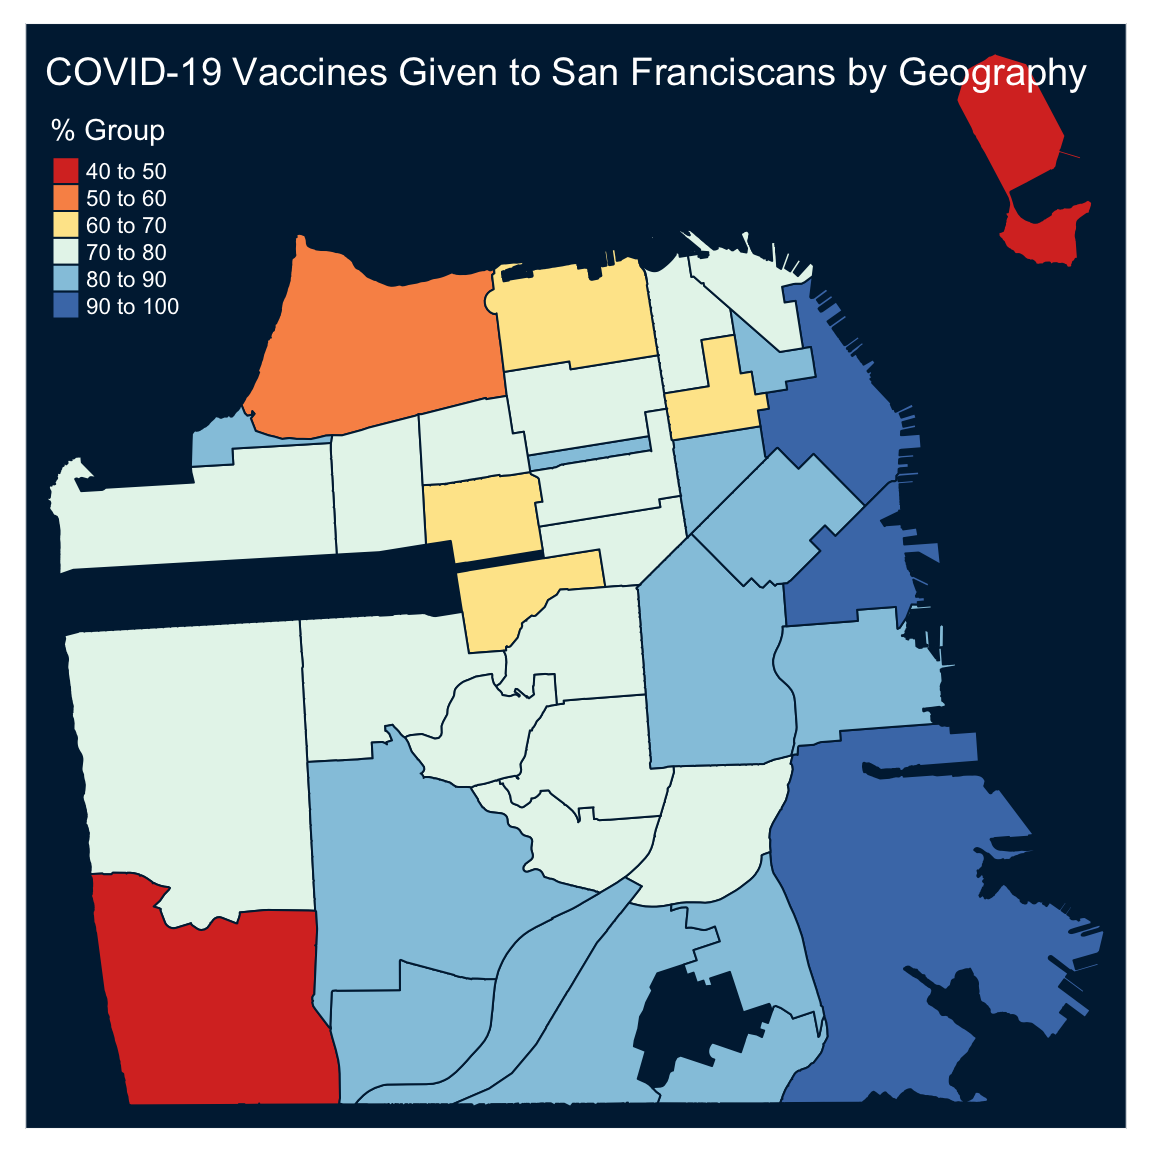
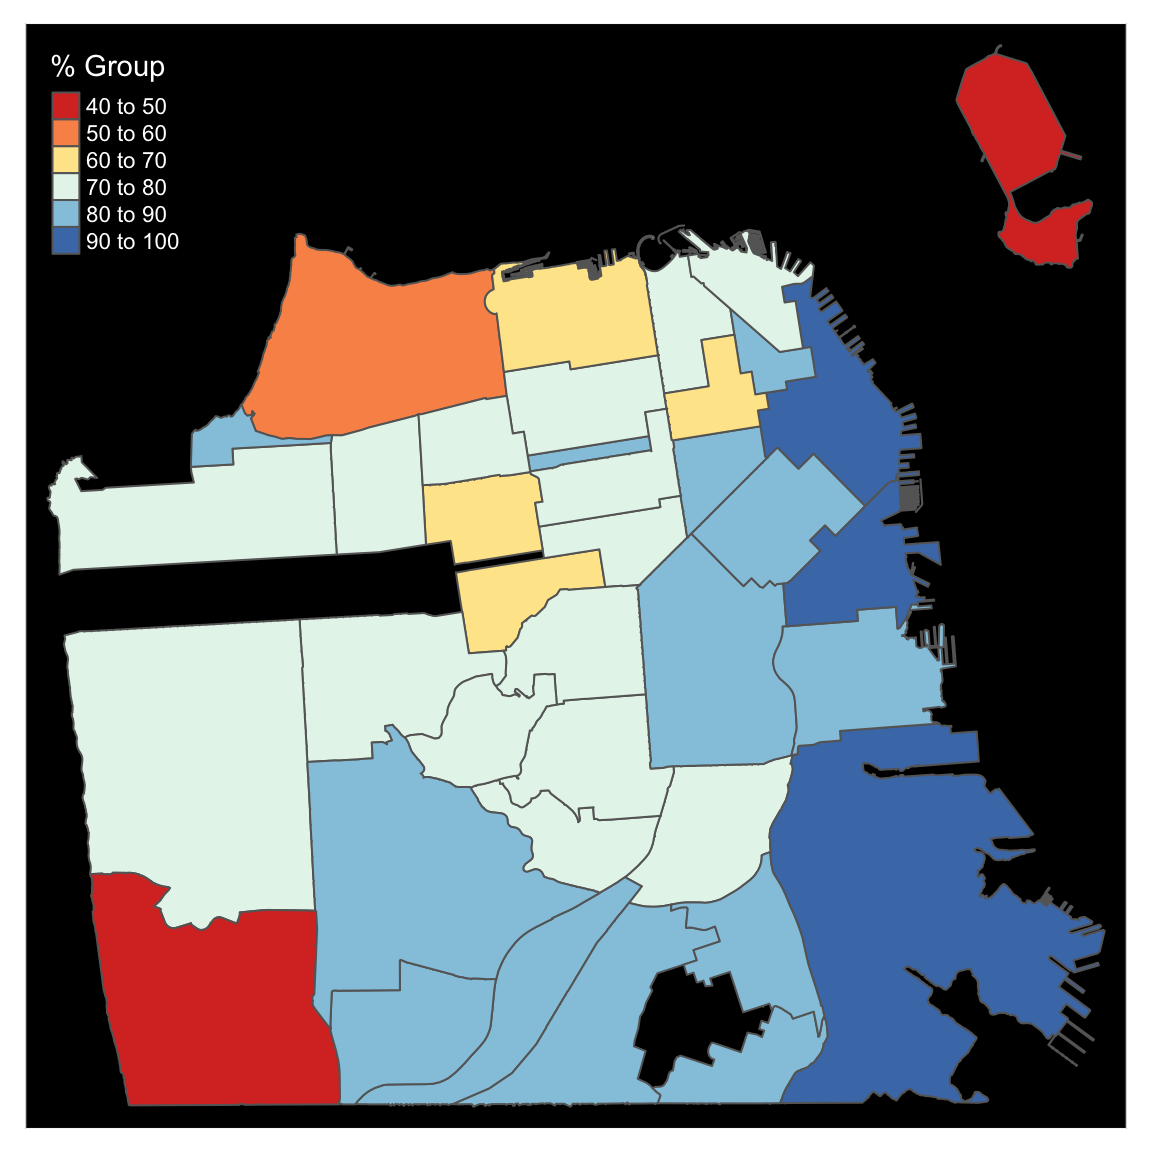
update the post

diff --git a/content/post/2021-12-20-geospatial-visualization-with-the-tmap-package/index.html b/content/post/2021-12-20-geospatial-visualization-with-the-tmap-package/index.html
@@ -1,7 +1,7 @@
 ---
 title: Introduction to Geospatial Visualization with the tmap package
 author: ''
-date: '2021-12-29'
+date: '2021-12-30'
 slug: geospatial-visualization-with-the-tmap-package
 categories:
   - dataviz
@@ -22,33 +22,35 @@ keywords:
 
 
 <!--more-->
-<p>The <a href="https://cran.r-project.org/web/packages/tmap/index.html">tmap</a> package provides a set of functions and tools for creating thematic maps such as choropleths and bubble maps. The package follows the ggplot2 syntax style enables the users to add different layers to the map. By default, the plot output is static, but it also has an interactive mode providing wrapper to the JavaScript <a href="">leaflet</a> library (similar to <strong>mapview</strong> and <strong>leaflet</strong> packages). This tutorial focuses on the basic functionality of the package covering:</p>
+<p>I had super fun exploring the <a href="https://cran.r-project.org/web/packages/tmap/index.html">tmap</a> package functionality while preparing a presentation about geospatial visualization for the <a href="https://ramikrispin.github.io/gis-dataviz-workshop/#1">Abuja R-Ladies/R Users meetup</a>, so I decided to write a short tutorial about it.</p>
+<p>The <strong>tmap</strong> package provides a set of functions and tools for creating thematic maps such as choropleths and bubble maps. The package follows the <strong>ggplot2</strong> syntax style enabling users to add different layers to the map. By default, the plot output is static, but it also has an interactive mode providing a wrapper to the JavaScript <a href="https://leafletjs.com/">leaflet</a> library (similar to <strong>mapview</strong> and <strong>leaflet</strong> packages). This tutorial focuses on the basic functionality of the package covering:</p>
 <ul>
 <li>Plotting <code>sf</code> objects</li>
 <li>Customize the plot colors</li>
 <li>Setting titles and legends</li>
 <li>Global options and attributes</li>
 </ul>
-<pre><code>## Spherical geometry (s2) switched off</code></pre>
-<p><img src="staticunnamed-chunk-1-1.png" width="576" /></p>
+<p><img src="staticunnamed-chunk-2-1.png" width="576" /></p>
 <div id="libraries" class="section level4">
 <h4>Libraries</h4>
-<p>In this tutorial we will use the following libraries:</p>
+<p>In this tutorial, we will use the following libraries:</p>
 <ul>
 <li><strong>tmap</strong> - tools and functions for creating thematic maps</li>
 <li><strong>sf</strong> - supports for <code>sf</code> objects</li>
 <li><strong>covid19sf</strong> - daily summary of COVID-19 cases and vaccination status in San Francisco</li>
 <li><strong>dplyr</strong> - to manipulate and filter the data</li>
+<li><strong>RColorBrewer</strong> - to set a color palettes for the plot</li>
 </ul>
 <pre class="r"><code>library(tmap)
 library(sf)
 library(covid19sf)
-library(dplyr)</code></pre>
+library(dplyr)
+library(RColorBrewer)</code></pre>
 </div>
 <div id="data-input" class="section level4">
 <h4>Data input</h4>
-<p>The <strong>tmap</strong> package supports objects from the <strong>sf</strong>, <strong>stars</strong>, <strong>sp</strong>, and <strong>raster</strong> packages. I generally find it easier to work with <code>sf</code> objects as it is a <code>data.frame</code> object with extra attributes (nested geometry data). Therefore, it is significantly easier and faster to manipulate <code>sf</code> objects with the use of <strong>dplyr</strong> or similar applications.</p>
-<p>In the examples below, we will use the <code>covid19sf_vaccine_geo</code> dataset from the <a href="https://github.com/RamiKrispin/covid19sf">covid19sf</a> package. This dataset represents the COVID-19 vaccinations given to SF residents by geographic region of their residential address. The dataset comes as an <code>sf</code> object and no additional reformatting is needed:</p>
+<p>The <strong>tmap</strong> package supports objects from the <strong>sf</strong>, <strong>stars</strong>, <strong>sp</strong>, and <strong>raster</strong> packages. I generally find it easier to work with <code>sf</code> object as it is a <code>data.frame</code> with extra attributes (nested geometry data). Therefore, it is significantly easier and faster to manipulate <code>sf</code> objects with the use of <strong>dplyr</strong> or similar applications.</p>
+<p>In the examples below, we will use the <code>covid19sf_vaccine_geo</code> dataset from the <a href="https://github.com/RamiKrispin/covid19sf">covid19sf</a> package. This dataset represents the COVID-19 vaccinations given to SF residents by geographic region of their residential address. The dataset comes as an <code>sf</code> object, therefore, no additional reformatting is needed:</p>
 <pre class="r"><code>data(covid19sf_vaccine_geo)
 
 head(covid19sf_vaccine_geo)</code></pre>
@@ -98,45 +100,52 @@ head(covid19sf_vaccine_geo)</code></pre>
 <li><code>geometry</code> - The area polygon data</li>
 </ul>
 <p>In the examples below, we will plot the percentage of San Francisco’s fully vaccinated population by neighborhood. The dataset contains both neighborhood and aggregated level data. Therefore, before starting, we will filter the data by the neighborhood level and remove the aggregated data:</p>
-<pre class="r"><code>df &lt;- covid19sf_vaccine_geo %&gt;% filter(area_type == &quot;Analysis Neighborhood&quot;) %&gt;%
+<pre class="r"><code>df &lt;- covid19sf_vaccine_geo %&gt;% 
+  filter(area_type == &quot;Analysis Neighborhood&quot;) %&gt;%
   mutate(perc_complated = percent_pop_series_completed * 100)</code></pre>
 <p><strong>Note:</strong> We created the <code>perc_complated</code> variable, a transformation of the <code>percent_pop_series_completed</code> variable from decimal to percentage format.</p>
 </div>
 <div id="basic-map" class="section level4">
 <h4>Basic map</h4>
-<p>Before starting, following changes in the default options of the sf package from version <code>1.0-1</code>, the default option is to use s2 spherical geometry when coordinates are ellipsoidal. That cause some issues with the <strong>tmap</strong> package, therefore we will set this functionality as <code>FALSE</code>:</p>
+<p>Before starting, following changes in the default options of the sf package from version <code>1.0-1</code>, the default option is to use s2 spherical geometry when coordinates are ellipsoidal. That can cause some issues with the <strong>tmap</strong> package, therefore we will set this functionality as <code>FALSE</code>:</p>
 <pre class="r"><code>sf_use_s2(FALSE)</code></pre>
-<p>We will start with basic plot of the percentage of vaccinated population in San Francisco. The <code>tm_shape</code> function specifies the shape object and the <code>tm_polygons</code> function defines draw the polygons and variable to fill the color:</p>
+<p>We will start with a basic plot of the percentage of the vaccinated population in San Francisco. The <code>tm_shape</code> function specifies the shape object, and the <code>tm_polygons</code> function draws the polygons and fills the color based on the input variable:</p>
 <pre class="r"><code>tm_shape(df) + 
   tm_polygons(col = &quot;perc_complated&quot;,
               title = &quot;% Group&quot;)</code></pre>
-<p><img src="staticunnamed-chunk-6-1.png" width="576" /></p>
-<p>By default, the <code>tm_polygons</code> function bucket continues variable into groups. In the case above, percentage of vaccinated population, into groups of tens. The <code>style</code> and <code>n</code> arguments enables you to control the splitting method (e.g., by fixied breaks, standard divination, quantile, log scale, etc.) and number of groups.For example, let’s set 10 equal buckets:</p>
+<p><img src="staticunnamed-chunk-7-1.png" width="576" /></p>
+<p>By default, the <code>tm_polygons</code> function bucket the continues variable into groups. In the case above, the percentage of vaccinated population, into groups of tens. The <code>style</code> and <code>n</code> arguments enable you to control the splitting or bucketing method (e.g., by fixed breaks, standard divination, quantile, log scale, etc.) and the number of groups, respectively. For example, let’s use the <code>equal</code> style and set the percentage groups into 10 equal buckets:</p>
 <pre class="r"><code>tm_shape(df) + 
   tm_polygons(&quot;perc_complated&quot;,
               n = 10,
               style = &quot;equal&quot;,
               title = &quot;% Group&quot;)  </code></pre>
-<p><img src="staticunnamed-chunk-7-1.png" width="576" /></p>
+<p><img src="staticunnamed-chunk-8-1.png" width="576" /></p>
 </div>
 <div id="color-setting" class="section level4">
 <h4>Color setting</h4>
-<p>Let’s now modify the plot colors. The <code>palette</code> argument on <code>tm_polygons</code> function enables you to define the map fill color palette. For example, we will use the <code>RdYlBu</code> from the <strong>RColorBrewer</strong> package:</p>
+<p>Let’s now modify the plot’s colors. The <code>palette</code> argument on <code>tm_polygons</code> function enables you to define the map fill color palette. For example, we will use the <code>RdYlBu</code> from the <strong>RColorBrewer</strong> package:</p>
+<pre class="r"><code>display.brewer.pal(n=7, name = &quot;RdYlBu&quot;)</code></pre>
+<p><img src="staticunnamed-chunk-9-1.png" width="576" /></p>
 <pre class="r"><code>tm_shape(df) + 
   tm_polygons(&quot;perc_complated&quot;,
               palette = &quot;RdYlBu&quot;,
               title = &quot;% Group&quot;)  </code></pre>
-<p><img src="staticunnamed-chunk-8-1.png" width="576" /></p>
-<p>The <code>palette</code> argument supports R’s main color palettes packages such as <strong>RColorBrewer</strong> and <strong>viridis</strong>. You can customize and modify the default palettes with the <code>palette_explorer</code> function, a Shiny app from the <strong>tmaptools</strong> package.</p>
-<p>The <code>tm_layout</code> function enables to set and modify the plot main elements such as title, margins, aspect ratio, colors, frame, legend, etc. In the following example we will modify the previous plot and set the background to black using the <code>bg.color</code> argument. Since the default text color is black, we will modify the legend title color to white with the <code>attr.color</code> argument:</p>
+<p><img src="staticunnamed-chunk-10-1.png" width="576" /></p>
+<p>The <code>palette</code> argument supports R’s main color palettes packages, such as <strong>RColorBrewer</strong> and <strong>viridis</strong>. You can customize and modify the default palettes with the <code>palette_explorer</code> function, a Shiny app from the <strong>tmaptools</strong> package:</p>
+<pre class="r"><code>library(tmaptools)
+
+palette_explorer()</code></pre>
+<p><img src="images/tmaptools%20app.png" /></p>
+<p>The <code>tm_layout</code> function enables setting and modifying the plot’s main elements: title, margins, aspect ratio, colors, frame, legend, etc. In the following example, we will modify the previous plot and set the background to black using the <code>bg.color</code> argument. As the default text color is black, we will modify the legend title color to white with the <code>attr.color</code> argument:</p>
 <pre class="r"><code>tm_shape(df) + 
   tm_polygons(&quot;perc_complated&quot;,
               palette = &quot;RdYlBu&quot;,
               title = &quot;% Group&quot;) +
   tm_layout(bg.color = &quot;black&quot;,
             attr.color = &quot;white&quot;)</code></pre>
-<p><img src="staticunnamed-chunk-9-1.png" width="576" /></p>
-<p>The <code>tm_style</code> function provides a predefined styles. That includes the following styles:</p>
+<p><img src="staticunnamed-chunk-11-1.png" width="576" /></p>
+<p>An alternative approach for setting the plot colors is to use a built-in color style. The <code>tm_style</code> function provides a predefined styles. That includes the following styles:</p>
 <ul>
 <li><code>white</code> - White background, commonly used colors (default)</li>
 <li><code>gray</code>/<code>grey</code> - Grey background, useful to highlight sequential palettes (e.g. in choropleths)</li>
@@ -153,20 +162,20 @@ head(covid19sf_vaccine_geo)</code></pre>
               palette = &quot;RdYlBu&quot;,
               title = &quot;% Group&quot;) +
   tm_style(&quot;cobalt&quot;)</code></pre>
-<p><img src="staticunnamed-chunk-10-1.png" width="576" /></p>
+<p><img src="staticunnamed-chunk-12-1.png" width="576" /></p>
 </div>
 <div id="titles-and-legends" class="section level4">
 <h4>Titles and legends</h4>
-<p>After we set the color theme it is time to set the plot title and customize the legend with the <code>tm_layout</code> function. We will set the plot title with the <code>title</code> argument (not to confuse with the <code>title</code> argument of the <code>tm_polygons</code> function:</p>
+<p>After we set the color theme it is time to set the plot title and customize the legend with the <code>tm_layout</code> function. We will use the function <code>title</code> argument (not to be confused with the <code>title</code> argument of the <code>tm_polygons</code> function):</p>
 <pre class="r"><code>tm_shape(df) + 
   tm_polygons(&quot;perc_complated&quot;,
               palette = &quot;RdYlBu&quot;,
               title = &quot;% Group&quot;) +
   tm_style(&quot;cobalt&quot;) +
   tm_layout(title = &quot;COVID-19 Vaccines Given to San Franciscans by Geography&quot;)</code></pre>
-<p><img src="staticunnamed-chunk-11-1.png" width="576" /></p>
+<p><img src="staticunnamed-chunk-13-1.png" width="576" /></p>
 <p><strong>Note:</strong> You can customize the title position with the <code>title.position</code> argument, using a vector of two values (see <code>?title.position</code> for more details).</p>
-<p>It may make sense to move the plot legend to the bottom right. We will use the following legend arguments:</p>
+<p>It may make sense to move the plot’s legend to the bottom right. We will use the following legend arguments:</p>
 <ul>
 <li><code>legend.position</code> - to set the legend position</li>
 <li><code>legend.outside</code> - if set to <code>TRUE</code>, will position the legend outside the plot margin</li>
@@ -183,8 +192,8 @@ head(covid19sf_vaccine_geo)</code></pre>
             legend.outside = FALSE,
             legend.title.size = 1.2,
             legend.text.size = 0.9)</code></pre>
-<p><img src="staticunnamed-chunk-12-1.png" width="576" /></p>
-<p>You can note that both the title and legend have some overlapping with the plot itself. We will use the <code>inner.margins</code> argument to modify the plot margins. This argument is a vector of four values specifying the bottom, left, top, and right margin.</p>
+<p><img src="staticunnamed-chunk-14-1.png" width="576" /></p>
+<p>You can note that both the title and legend have some overlapping with the plot itself. We will use the <code>inner.margins</code> argument to modify the plot margins. This argument is a vector of four values specifying the bottom, left, top, and right margin:</p>
 <pre class="r"><code>tm_shape(df) + 
   tm_polygons(&quot;perc_complated&quot;,
               palette = &quot;RdYlBu&quot;,
@@ -196,8 +205,8 @@ head(covid19sf_vaccine_geo)</code></pre>
             legend.title.size = 1.2,
             legend.text.size = 0.9, 
             inner.margins = c(0.01, 0.01, .12, .25))</code></pre>
-<p><img src="staticunnamed-chunk-13-1.png" width="576" /></p>
-<p>We will add text labels to the map with the <code>tm_text</code> function by using the <code>text</code> and <code>size</code> arguments to define the labels variable and the font size:</p>
+<p><img src="staticunnamed-chunk-15-1.png" width="576" /></p>
+<p>Next, we will label the polygons with their names with the <code>tm_text</code> function. The <code>text</code> and <code>size</code> arguments define the labels variable and the font size, respectively:</p>
 <pre class="r"><code>tm_shape(df) + 
   tm_polygons(&quot;perc_complated&quot;,
               palette = &quot;RdYlBu&quot;,
@@ -211,11 +220,11 @@ head(covid19sf_vaccine_geo)</code></pre>
             legend.title.size = 1.2,
             legend.text.size = 0.9, 
             inner.margins = c(0.01, 0.01, .12, .25))</code></pre>
-<p><img src="staticunnamed-chunk-14-1.png" width="576" /></p>
+<p><img src="staticunnamed-chunk-16-1.png" width="576" /></p>
 </div>
 <div id="plot-attributes" class="section level4">
 <h4>Plot attributes</h4>
-<p>Last but not least, we will review the tmap global options. The <code>tmap_options</code> function defines the default global attributes of plot:</p>
+<p>Last but not least, we will review the <strong>tmap</strong> package global options. The <code>tmap_options</code> function defines the default global attributes of the plot:</p>
 <pre class="r"><code>head(tmap_options(), 10)</code></pre>
 <pre><code>## $unit
 ## [1] &quot;metric&quot;
@@ -248,7 +257,7 @@ head(covid19sf_vaccine_geo)</code></pre>
 ## 
 ## $output.dpi.animation
 ## [1] 100</code></pre>
-<p>In total there are 111 attributes:</p>
+<p>In total, there are 111 attributes:</p>
 <pre class="r"><code>names(tmap_options())</code></pre>
 <pre><code>##   [1] &quot;unit&quot;                    &quot;limits&quot;                 
 ##   [3] &quot;max.categories&quot;          &quot;max.raster&quot;             
@@ -313,7 +322,7 @@ head(covid19sf_vaccine_geo)</code></pre>
 <pre><code>## [1] &quot;black&quot;</code></pre>
 <pre class="r"><code>tmap_options()$style</code></pre>
 <pre><code>## NULL</code></pre>
-<p>Here is a nice example, from the <code>tmap_options</code> documentation, of setting a black style option (for more example see <code>?tmap_options</code>). First, we will define the key element of the plot color schema as a list:</p>
+<p>Here is a nice example, from the <code>tmap_options</code> documentation, of setting a black style option (for more examples, see <code>?tmap_options</code>). First, we will define the key elements of the plot color schema as a list:</p>
 <pre class="r"><code>black_style  &lt;- structure(
     list(
         bg.color = &quot;black&quot;,
@@ -333,7 +342,7 @@ head(covid19sf_vaccine_geo)</code></pre>
     ),
     style = &quot;black&quot;
 )</code></pre>
-<p>Next we will assign the style:</p>
+<p>Using the <code>tmap_options</code> function, we will assign the new style to the global options:</p>
 <pre class="r"><code>tmap_options(black_style)</code></pre>
 <p>You can confirm that the default option for <code>bg.color</code> is now black:</p>
 <pre class="r"><code>tmap_options()$bg.color</code></pre>
@@ -347,11 +356,11 @@ head(covid19sf_vaccine_geo)</code></pre>
           size = 0.6) +
   tm_layout(title = &quot;COVID-19 Vaccines Given to San Franciscans by Geography&quot;,
             legend.position =c(&quot;right&quot;, &quot;bottom&quot;))</code></pre>
-<p><img src="staticunnamed-chunk-21-1.png" width="576" /></p>
+<p><img src="staticunnamed-chunk-23-1.png" width="576" /></p>
 </div>
 <div id="additional-resources" class="section level4">
 <h4>Additional resources</h4>
-<p>The packages documentation available here:</p>
+<p>Below are some additional resources and documentation:</p>
 <ul>
 <li><strong>tmap</strong> package:
 <ul>
